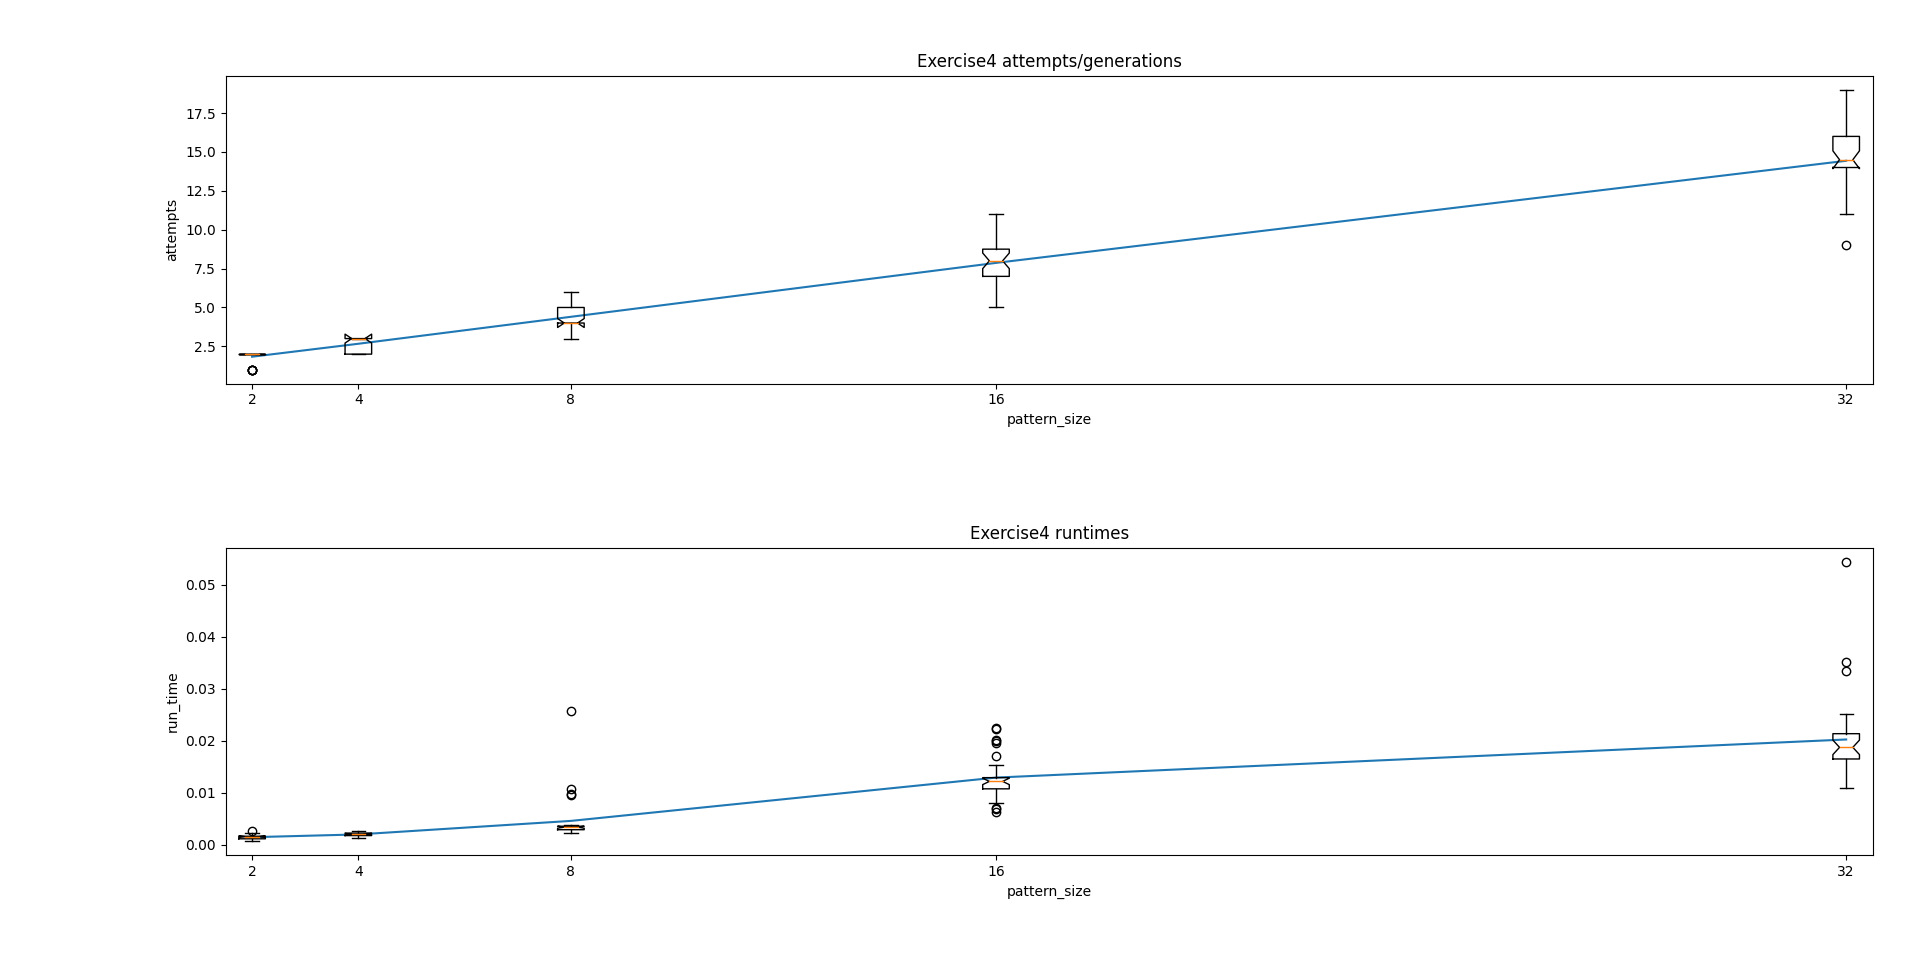
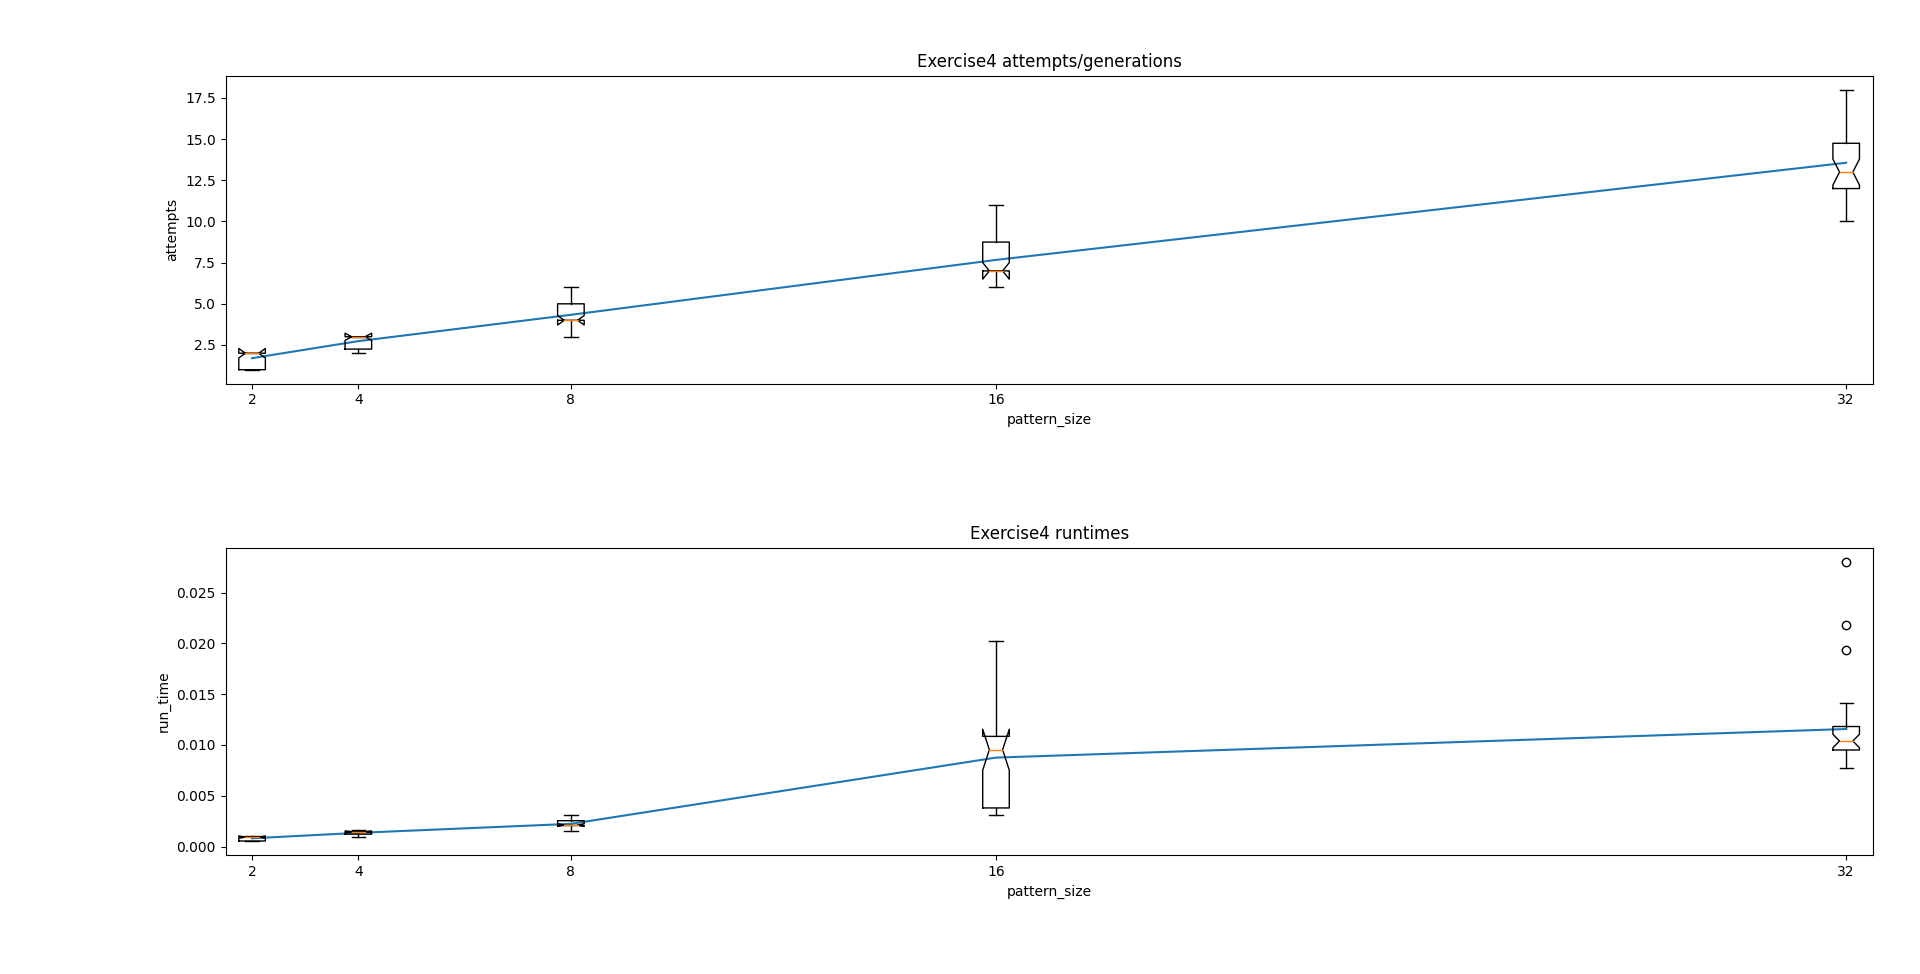
general cleanup new mean implementation

diff --git a/Assignment2_EvolutionaryMastermindSimulator/Exercises/Exercise2.py b/Assignment2_EvolutionaryMastermindSimulator/Exercises/Exercise2.py
@@ -6,7 +6,7 @@ import timeit
 from matplotlib import pyplot as plt
 
 from Assignment2_EvolutionaryMastermindSimulator.Exercises.Constants import TRIAL_RUNS, BITS, TIME_LIMIT
-from Assignment2_EvolutionaryMastermindSimulator.Exercises.Thread_Launcher import launch_Threads, store_result
+from Assignment2_EvolutionaryMastermindSimulator.Exercises.Thread_Launcher import launch_threads, store_result
 from Assignment2_EvolutionaryMastermindSimulator.Logic.Plotter import plot_results_list
 from Assignment2_EvolutionaryMastermindSimulator.Logic.Mastermind import Mastermind
 from Assignment2_EvolutionaryMastermindSimulator.Logic.Result import Result
@@ -30,16 +30,17 @@ def _assignment2_exercise2_line_a(pattern_size: int):
     _current_pattern = Mastermind.random_bit_pattern(pattern_size)
     _results_attempts: int = 0
     _success = True
-
+    _fitnesses_list:[int] = []
+    _patterns_list:[str]=[_current_pattern]
     _results_start = timeit.default_timer()
-    while _current_pattern != _goal:
+    result:Result
+    while _current_pattern != _goal and _success:
         if timeit.default_timer() - _results_start > TIME_LIMIT:
             _success = False
             result = Result(run_time=timeit.default_timer() - _results_start, attempts=_results_attempts,
                             pattern_size=pattern_size,
                             successfull=_success)
             store_result(result=result, results=exercise2_results_list, lock=exercise2_lock)
-            return
         else:
             _original_fitness = Mastermind.fitness(goal=_goal, curr=_current_pattern)
             _counter: int = 0
@@ -49,8 +50,7 @@ def _assignment2_exercise2_line_a(pattern_size: int):
                 _results_attempts += 1
                 _counter += 1
             _current_pattern = _mutated
-        # print("Assignment2::Exercise2::demo_graph::randomTest::goal:",_goal,"current:",_current_pattern)
-        # fitnesses_list[bits.index(pattern_size)].append(Mastermind.fitness(goal=_goal, curr=_mutated))
+            _patterns_list.append(_current_pattern)
     if _success:
         _results_stop = timeit.default_timer()
         result = Result(
@@ -60,11 +60,15 @@ def _assignment2_exercise2_line_a(pattern_size: int):
             successfull=_success,
         )
         store_result(result=result, results=exercise2_results_list, lock=exercise2_lock)
+    #prints for the response of exercise2
+    #print("sucess:",_success,"goal:",_goal,"patterns:",_patterns_list)
 
 
 if __name__ == '__main__':
     random.seed(1)
     exercise2_lock = threading.Lock()
     exercise2_results_list: [[Result]] = [[] for _ in range(len(BITS))]
-    launch_Threads(method_to_run=_assignment2_exercise2_line_a, results=exercise2_results_list)
+    #for _ in range(1):
+    #    _assignment2_exercise2_line_a(16)
+    launch_threads(method_to_run=_assignment2_exercise2_line_a, results=exercise2_results_list)
     plot_results_list(results=exercise2_results_list, title="Exercise2")

diff --git a/Assignment2_EvolutionaryMastermindSimulator/Exercises/Exercise6.py b/Assignment2_EvolutionaryMastermindSimulator/Exercises/Exercise6.py
@@ -24,26 +24,26 @@ def random_decimal() -> str:
 # Para avaliar os novos padrões decimais estou a iterar por todos os caracteres de ambos os padrões e
 # convertendo em numeros inteiros, depois calculo o absoluto da subtração do goal pelo curr
 def evaluate_decimal(goal: str, curr: str) -> int:
-    # _dif_counter: int = max(len(goal), len(curr))
-    _dif_counter: int = 0
+    _dif_counter: int = abs(len(goal)-len(curr))
     for charindex in range(min(len(curr), len(goal))):
         _goal_int: int = int(goal[charindex])
         _current_int: int = int(curr[charindex])
         _dif_counter += abs(_goal_int - _current_int)
-        # if curr[charindex] == goal[charindex]:
-        #    _dif_counter -= 1
-
     return _dif_counter
 
 
 def evaluate_decimal_test():
-    for _ in range(10):
-        _goal: str = random_decimal_pattern(4)
-        _current: str = random_decimal_pattern(4)
+    for _ in range(5):
+        _goal: str = random_decimal_pattern(random.randint(1,4))
+        _current: str = random_decimal_pattern(random.randint(1,4))
         _evaluation: int = evaluate_decimal(goal=_goal, curr=_current)
         print("goal=", _goal, "\t_current=", _current, "\tevaluation=", _evaluation)
     print("goal=", "01231", "\t_current=", "01231", "\tevaluation=", evaluate_decimal(goal="01231", curr="01231"))
     print("goal=", "01231", "\t_current=", "01233", "\tevaluation=", evaluate_decimal(goal="01231", curr="01233"))
+    print("goal=", "01231", "\t_current=", "012339", "\tevaluation=", evaluate_decimal(goal="01231", curr="012339"))
+    print("goal=", "012", "\t_current=", "012339", "\tevaluation=", evaluate_decimal(goal="012", curr="012339"))
+    print("goal=", "012", "\t_current=", "012339", "\tevaluation=", evaluate_decimal(goal="012", curr="012339"))
+    print("goal=", "012", "\t_current=", "019339", "\tevaluation=", evaluate_decimal(goal="012", curr="019339"))
 
 
 # Para corrigir a função de fitness
@@ -55,9 +55,6 @@ def fitness_decimal(goal: str, curr: str) -> float:
         _goal_int: int = int(goal[charindex])
         _current_int: int = int(curr[charindex])
         _dif_counter -= abs(_goal_int - _current_int)
-        # if curr[charindex] == goal[charindex]:
-        #    _dif_counter -= 1
-
     return _dif_counter / _max_diff
 
 

diff --git a/Assignment2_EvolutionaryMastermindSimulator/Exercises/Exercise3.py b/Assignment2_EvolutionaryMastermindSimulator/Exercises/Exercise3.py
@@ -3,7 +3,7 @@ import threading
 import timeit
 
 from Assignment2_EvolutionaryMastermindSimulator.Exercises.Constants import BITS, STAGNATION_VARIANCE
-from Assignment2_EvolutionaryMastermindSimulator.Exercises.Thread_Launcher import store_result, launch_Threads
+from Assignment2_EvolutionaryMastermindSimulator.Exercises.Thread_Launcher import store_result, launch_threads
 from Assignment2_EvolutionaryMastermindSimulator.Logic.Mastermind import Mastermind
 from Assignment2_EvolutionaryMastermindSimulator.Logic.Plotter import plot_results_list
 from Assignment2_EvolutionaryMastermindSimulator.Logic.Population import Population, mutate_population
@@ -29,8 +29,7 @@ def _assignment2_exercise3_line_a(pattern_size: int):
         # while _current_population.get_mean_fitness() < len(_goal):
         fitness_list_len: bool = len(_fitness_history) > 1
         if fitness_list_len:
-            _stagnated = _fitness_history[
-                             -1] + STAGNATION_VARIANCE > _current_population.get_mean_fitness() > \
+            _stagnated = _fitness_history[-1] + STAGNATION_VARIANCE > _current_population.get_mean_fitness() > \
                          _fitness_history[-1] - STAGNATION_VARIANCE
 
         _fitness_history.append(_current_population.get_mean_fitness())
@@ -55,5 +54,5 @@ if __name__ == '__main__':
     random.seed(1)
     exercise3_lock = threading.Lock()
     exercise3_results_list: [[Result]] = [[] for _ in range(len(BITS))]
-    launch_Threads(method_to_run=_assignment2_exercise3_line_a, results=exercise3_results_list)
+    launch_threads(method_to_run=_assignment2_exercise3_line_a, results=exercise3_results_list)
     plot_results_list(results=exercise3_results_list, title="Exercise3")

diff --git a/Assignment2_EvolutionaryMastermindSimulator/Exercises/Exercise1.py b/Assignment2_EvolutionaryMastermindSimulator/Exercises/Exercise1.py
@@ -4,7 +4,7 @@ import threading
 import timeit
 
 from Assignment2_EvolutionaryMastermindSimulator.Exercises.Constants import TIME_LIMIT, TRIAL_RUNS, BITS
-from Assignment2_EvolutionaryMastermindSimulator.Exercises.Thread_Launcher import store_result, launch_Threads
+from Assignment2_EvolutionaryMastermindSimulator.Exercises.Thread_Launcher import store_result, launch_threads
 from Assignment2_EvolutionaryMastermindSimulator.Logic.Mastermind import Mastermind
 from Assignment2_EvolutionaryMastermindSimulator.Logic.Plotter import plot_results_list
 from Assignment2_EvolutionaryMastermindSimulator.Logic.Result import Result
@@ -31,7 +31,6 @@ def _assignment2_exercise1_line_b(patternSize: int):
                             pattern_size=patternSize,
                             successfull=_success)
             store_result(result=result, results=exercise1_results_list, lock=exercise1_lock)
-            #return
         else:
             _generated_pattern = Mastermind.random_bit_pattern(size=patternSize)
             _attempts += 1
@@ -76,7 +75,7 @@ if __name__ == '__main__':
     _assignment2_exercise1_line_a()
     print()
 
-    launch_Threads(method_to_run=_assignment2_exercise1_line_b, results=exercise1_results_list)
+    launch_threads(method_to_run=_assignment2_exercise1_line_b, results=exercise1_results_list)
     plot_results_list(results=exercise1_results_list, title="Exercise1")
 
     print()

diff --git a/Assignment2_EvolutionaryMastermindSimulator/Exercises/Exercise4.py b/Assignment2_EvolutionaryMastermindSimulator/Exercises/Exercise4.py
@@ -5,7 +5,7 @@ import timeit
 from matplotlib import pyplot as plt
 
 from Assignment2_EvolutionaryMastermindSimulator.Exercises.Constants import BITS, STAGNATION_VARIANCE
-from Assignment2_EvolutionaryMastermindSimulator.Exercises.Thread_Launcher import launch_Threads, store_result
+from Assignment2_EvolutionaryMastermindSimulator.Exercises.Thread_Launcher import launch_threads, store_result
 from Assignment2_EvolutionaryMastermindSimulator.Logic.Mastermind import Mastermind
 from Assignment2_EvolutionaryMastermindSimulator.Logic.Plotter import plot_results_list
 from Assignment2_EvolutionaryMastermindSimulator.Logic.Population import Population, mutate_population, \
@@ -57,8 +57,8 @@ def _assignment2_exercise4_line_a(pattern_size: int):
 
 
 if __name__ == '__main__':
-    # random.seed(1)
+    random.seed(1)
     exercise4_lock = threading.Lock()
     exercise4_results_list: [[Result]] = [[] for _ in range(len(BITS))]
-    launch_Threads(method_to_run=_assignment2_exercise4_line_a, results=exercise4_results_list)
+    launch_threads(method_to_run=_assignment2_exercise4_line_a, results=exercise4_results_list)
     plot_results_list(results=exercise4_results_list, title="Exercise4")

diff --git a/Assignment2_EvolutionaryMastermindSimulator/Logic/Mastermind.py b/Assignment2_EvolutionaryMastermindSimulator/Logic/Mastermind.py
@@ -47,14 +47,6 @@ class Mastermind:
             input_as_list[index] = "0"
         return "".join(input_as_list)
 
-#        _original_fitness: int = Mastermind.fitness(goal=goal, curr=input)
-#        _mutated = input
-#        _counter = 0
-#        while _original_fitness >= Mastermind.fitness(goal=goal, curr=_mutated) and _counter < 1000:
-#            _mutated = flip_random_bit(_mutated)
-#            _counter += 1
-#       return _mutated
-
     @staticmethod
     def crossover(input_a: str, input_b: str) -> str:
         first_input = randint(0, 1)

diff --git a/Assignment2_EvolutionaryMastermindSimulator/Exercises/Thread_Launcher.py b/Assignment2_EvolutionaryMastermindSimulator/Exercises/Thread_Launcher.py
@@ -18,7 +18,7 @@ def store_result(results: [Result], result: Result, lock: threading.Lock):
     lock.release()
 
 
-def launch_Threads(method_to_run, results: [Result]):
+def launch_threads(method_to_run, results: [Result]):
     with concurrent.futures.ThreadPoolExecutor() as executor:
         # [executor.submit(randomTest,bit) for bit in bits]
         for _ in range(TRIAL_RUNS):

diff --git a/Assignment2_EvolutionaryMastermindSimulator/Logic/Plotter.py b/Assignment2_EvolutionaryMastermindSimulator/Logic/Plotter.py
@@ -1,8 +1,9 @@
-from statistics import mean
+
 
 from matplotlib import pyplot as plt
 
 from Assignment2_EvolutionaryMastermindSimulator.Exercises.Constants import BITS
+from Assignment2_EvolutionaryMastermindSimulator.Logic.Logic import mean
 from Assignment2_EvolutionaryMastermindSimulator.Logic.Result import Result
 
 

diff --git a/Assignment2_EvolutionaryMastermindSimulator/Logic/Logic.py b/Assignment2_EvolutionaryMastermindSimulator/Logic/Logic.py
@@ -1,3 +1,8 @@
+def mean(input_list: list):
+    if len(input_list) == 0:
+        return -1
+    else:
+        return sum(input_list) / len(input_list)
 
 
 
